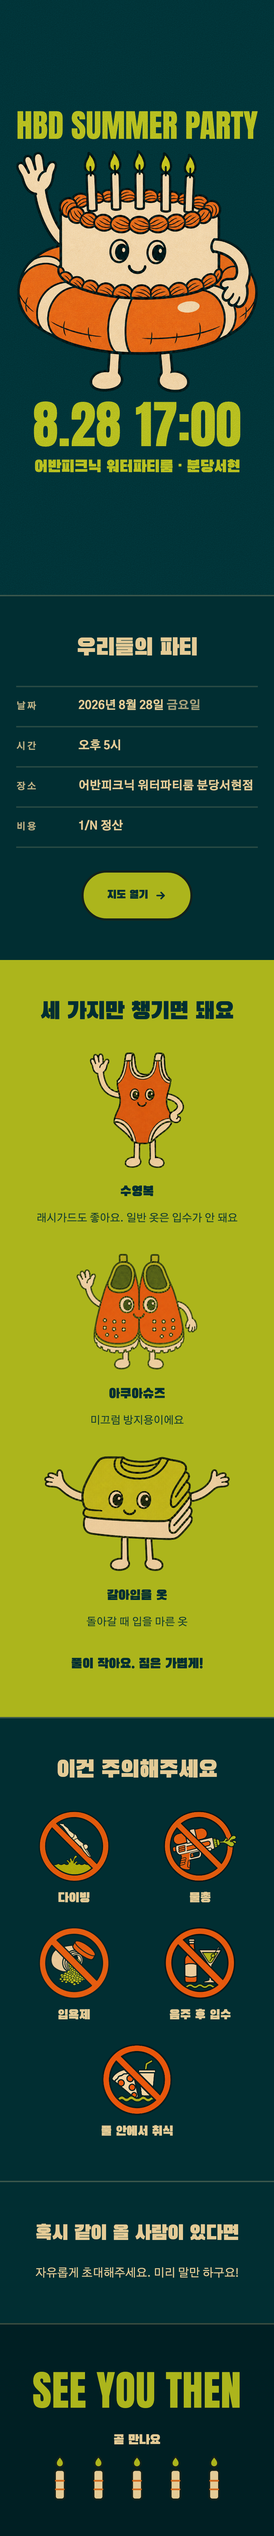
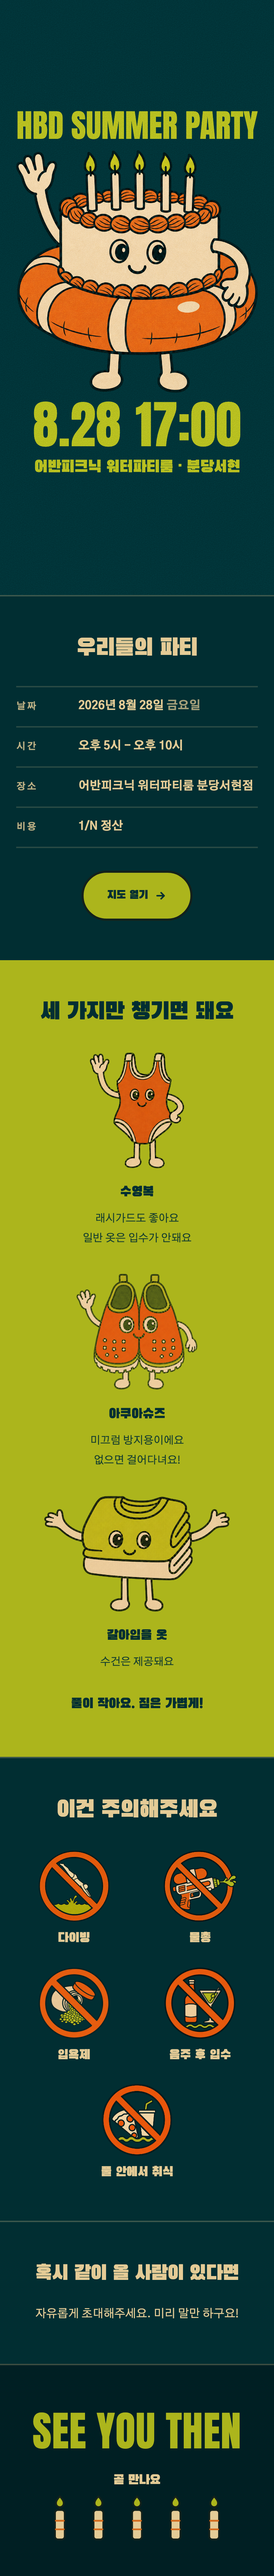
Tighten the packing-list copy and record the end time
- the two longer kit notes break onto a second line where the host wanted the
  pause, so `note` is now a list of lines rather than a string
- 갈아입을 옷 note becomes "수건은 제공돼요", which puts the venue-supplies-towels
  fact on the page rather than only in PRODUCT.md
- the party has a confirmed end time now: 오후 5시 - 오후 10시. Recorded in
  PRODUCT.md too, since "single-day evening party" was all the record held.

diff --git a/PRODUCT.md b/PRODUCT.md
@@ -34,8 +34,8 @@ guest list is settled off-site and the page has no administrative surface.
 ## Product Purpose
 
 The site is an invitation to a single event: **HBD Summer Party**, a joint summer
-birthday party for five people, held Friday, August 28, 2026 at 5:00 PM at Urban
-Picnic 어반피크닉 워터파티룸 분당서현점.
+birthday party for five people, held Friday, August 28, 2026 from 5:00 PM to
+10:00 PM at Urban Picnic 어반피크닉 워터파티룸 분당서현점.
 
 Success is **the invitation being understood and felt, and guests arriving prepared.**
 It is not attendance and not RSVP completion: RSVP has already been received, so the
@@ -85,7 +85,7 @@ no headcount, no calendar integration, no analytics has been asked for.
 
 Confirmed content the site carries:
 - Event name: HBD Summer Party
-- Date and time: Friday, August 28, 2026, 5:00 PM
+- Date and time: Friday, August 28, 2026, 5:00 PM - 10:00 PM (end time confirmed 2026-08-25)
 - Venue: Urban Picnic 어반피크닉 워터파티룸 분당서현점
 - Venue map link: <https://naver.me/Fr7bgqO0>
 - What to bring: swimsuit or rashguard (ordinary clothes are not allowed in the water),
